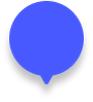
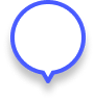
feat: set marker resources

diff --git a/components/MapBox/index.tsx b/components/MapBox/index.tsx
@@ -7,6 +7,15 @@ mapboxgl.accessToken = process.env.NEXT_PUBLIC_MAPBOX_GL_TOKEN!;
 
 const MAP_CONTAINER_ID = "map-container";
 
+const MARKER_RESOURCES = {
+  marker_available: {
+    "text-size": 14,
+    "text-offset": [0, -0.2],
+  },
+  marker_focus: { "text-size": 20, "text-offset": [0, -0.3] },
+  marker_unavailable: { "text-size": 0, "text-offset": [0, 0] },
+};
+
 interface MapProps {
   className?: string;
   parkingLots: ParkingLotData[];
@@ -28,14 +37,11 @@ const createMap = (defaultLocation: Coordinate) => {
     })
   );
 
-  [
-    { name: "marker_available" },
-    { name: "marker_focus", content: [20, 20, 75, 65] },
-    { name: "marker_unavailable" },
-  ].forEach(({ name: imageName, ...options }) => {
+  Object.keys(MARKER_RESOURCES).forEach((imageName) => {
     map.loadImage(
       `/img/${imageName}.png`,
-      (err, image) => image && map.addImage(imageName, image, {pixelRatio: 2})
+      (err, image) =>
+        image && map.addImage(imageName, image, { pixelRatio: 2.5 })
     );
   });
 
@@ -56,50 +62,61 @@ const MapBox: React.FC<MapProps> = ({
 
   useEffect(() => {
     if (!map) return;
-    parkingLots.forEach(({ longitude, latitude }, index) => {
-      const coord: Coordinate = [longitude, latitude];
-      // new mapboxgl.Marker().setLngLat(coord).addTo(map);
+    const features = parkingLots.map(({ longitude, latitude }, index) => {
+      const markerType = [
+        "marker_focus",
+        "marker_unavailable",
+        "marker_available",
+      ][index % 3];  // TODO: set using focus index & ...
 
-      map.on("load", () => {
-        const SOURCE_ID = `test-source-name-${index}`;
-        map.addSource(SOURCE_ID, {
-          type: "geojson",
-          data: {
-            type: "FeatureCollection",
-            features: [
-              {
-                type: "Feature",
-                geometry: {
-                  type: "Point",
-                  coordinates: coord,
-                },
-                properties: {
-                  "image-name": "marker_focus",
-                  name: "7",
-                },
-              },
-            ],
-          },
-        });
+      return {
+        type: "Feature",
+        geometry: {
+          type: "Point",
+          coordinates: [longitude, latitude],
+        },
+        properties: {
+          name: "3",  // TODO: set available
+          "image-name": markerType,
+          ...MARKER_RESOURCES[markerType],
+        },
+      };
+    });
 
-        map.addLayer({
-          id: SOURCE_ID,
-          type: "symbol",
-          source: SOURCE_ID,
-          layout: {
-            "text-field": ["get", "name"],
-            "icon-text-fit": "none",
-            "icon-image": ["get", "image-name"],
-            "icon-allow-overlap": true,
-            "text-allow-overlap": true,
-          },
-        });
+    // new mapboxgl.Marker().setLngLat(coord).addTo(map);
+    map.on("load", () => {
+      const SOURCE_ID = `test-source-name`;
+
+      map.addSource(SOURCE_ID, {
+        type: "geojson",
+        data: {
+          type: "FeatureCollection",
+          features: features, // @ts-ignore
+        },
+      });
+
+      map.addLayer({
+        id: SOURCE_ID,
+        type: "symbol",
+        source: SOURCE_ID,
+        layout: {
+          "text-field": ["get", "name"],
+          "icon-text-fit": "none",
+          "icon-image": ["get", "image-name"],
+          "icon-allow-overlap": true,
+          "text-allow-overlap": true,
+          "text-size": ["get", "text-size"],
+          "text-offset": ["get", "text-offset"],
+        },
       });
     });
   }, [map, parkingLots]);
 
   return (
-    <div className={`w-screen h-screen z-0 ${className}`}>
+    <div
+      className={`w-screen h-screen z-0 ${className}`}
+      style={{ color: "#ffffff" }}
+    >
       <div id={MAP_CONTAINER_ID} className="w-full h-full" />
     </div>
   );

diff --git a/dummies/parkingLots.ts b/dummies/parkingLots.ts
@@ -14,8 +14,8 @@ const dummyParkingLots: ParkingLotData[] = [
   {
     _id: "",
     name: "Union Square Parking2",
-    longitude: -122.41095490000001,
-    latitude: 37.783797,
+    longitude: -122.4100,
+    latitude: 37.783792,
     is_free: true,
     lots: "",
     priority: "",
@@ -24,8 +24,8 @@ const dummyParkingLots: ParkingLotData[] = [
   {
     _id: "",
     name: "Union Square Parking3",
-    longitude: -122.41095490000001,
-    latitude: 37.783797,
+    longitude: -122.410953,
+    latitude: 37.7835,
     is_free: true,
     lots: "",
     priority: "",
